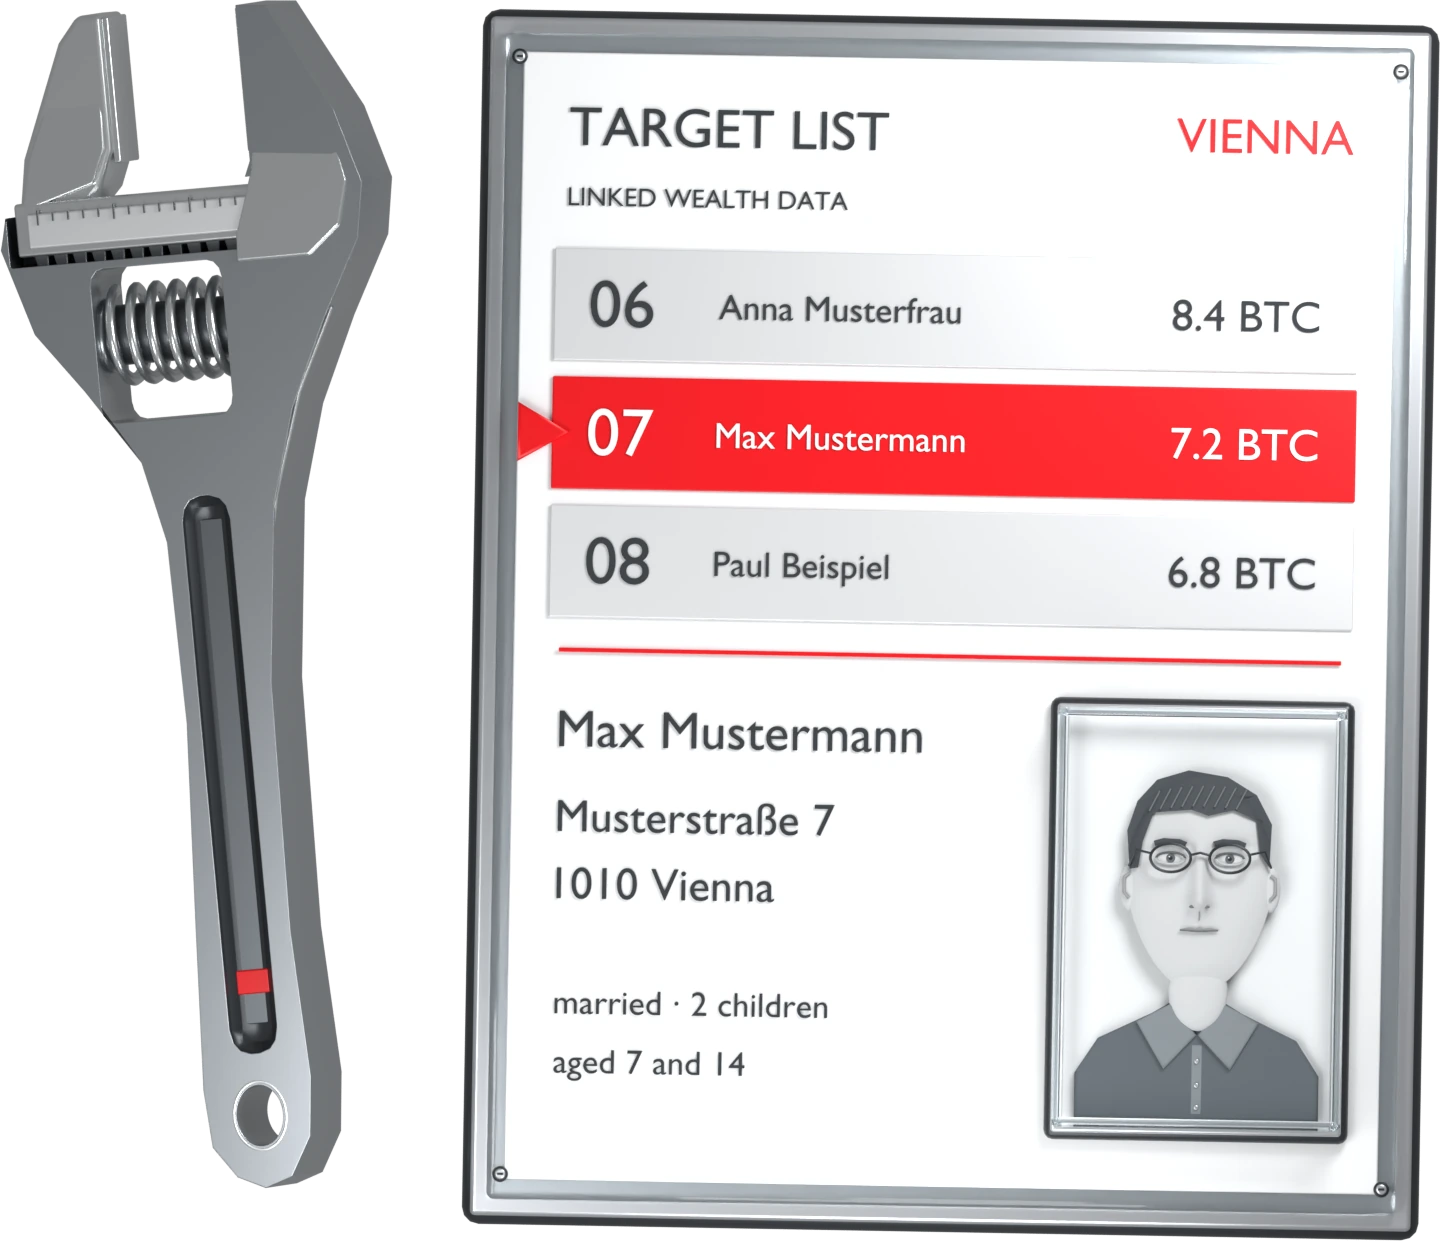
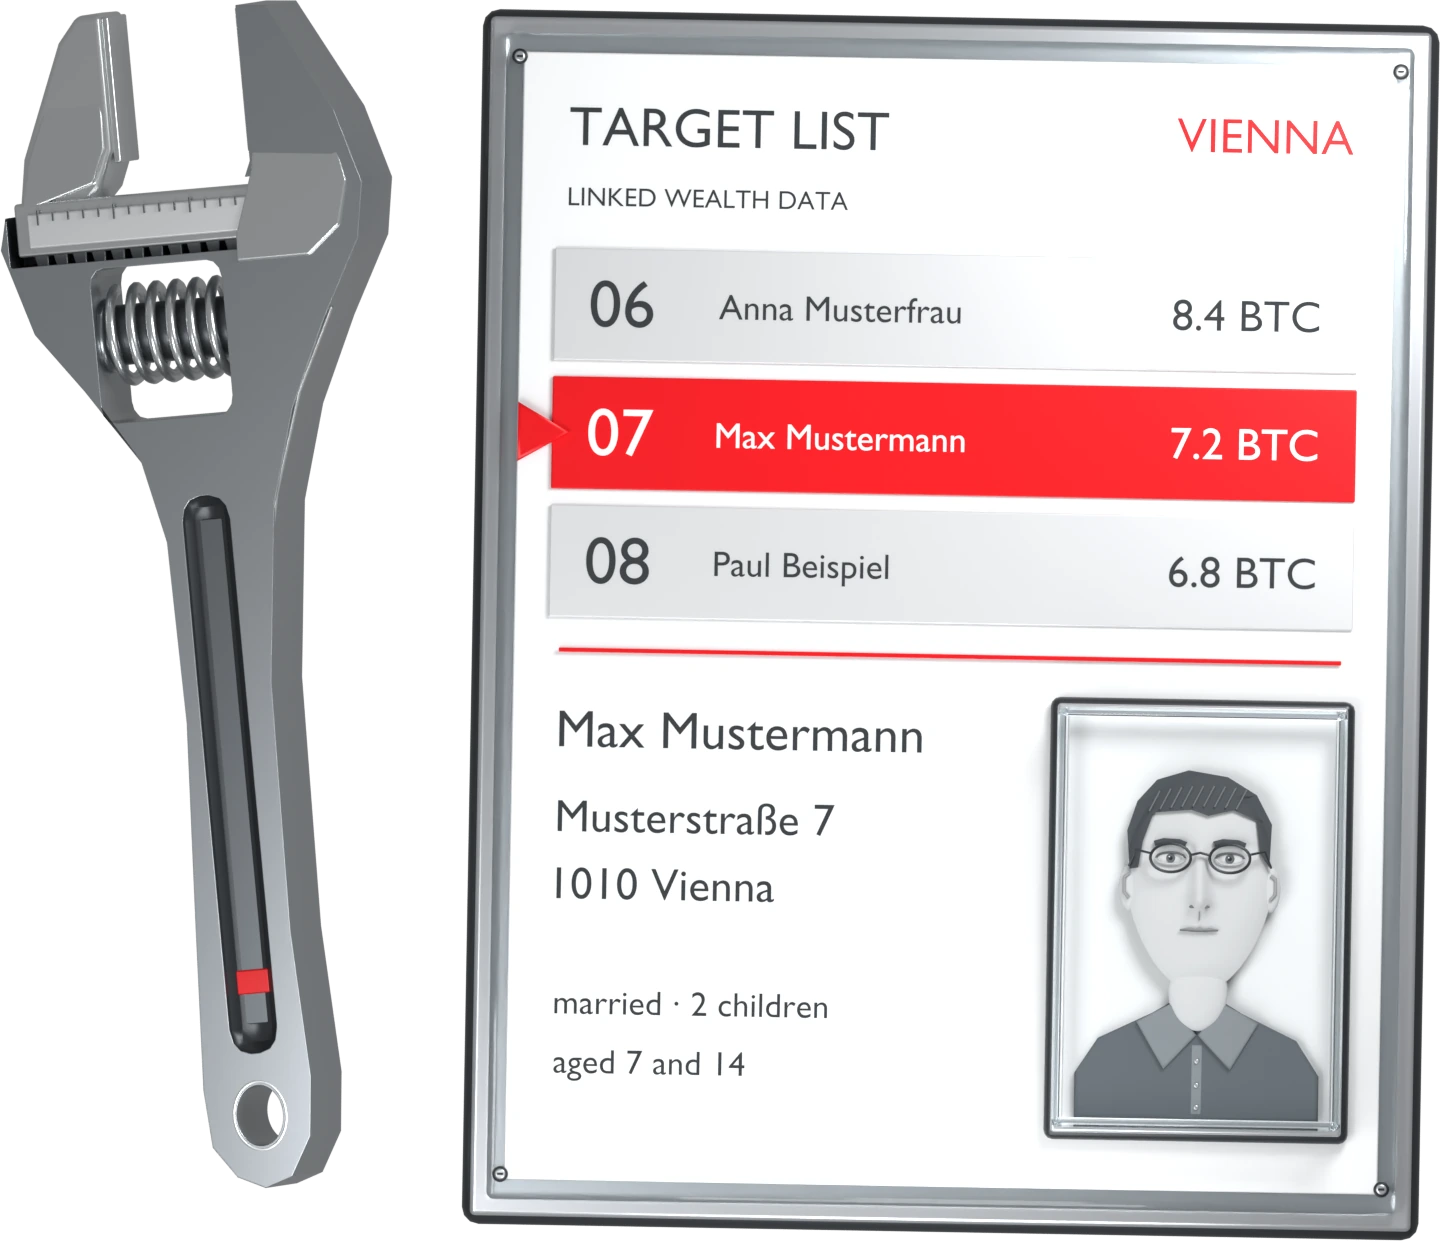
Re-render the labelled artwork without shadows under the lettering
Printed labels on the glass and metal cards cast a soft offset shadow, so
small text such as the leak sheet, the target list and the annual files
looked doubled and blurred although the geometry is sharp. The labels now
cast no shadow; geometry, cameras and crops are unchanged. Motifs without
labels, and the complaint and defence scenes whose text was already
shadowless, keep their files.

The renders come from the artwork lab's generators with that one change to
label(); the lab itself is not modified here.

diff --git a/README.md b/README.md
@@ -27,7 +27,10 @@ The site does not build from the submodule. Illustrations in use are copied
 from the lab's transparent cutouts (`knowledge/dac8-*-cutout.png`) into
 `src/assets/artwork/` as WebP masters; Astro generates the responsive AVIF and
 WebP files at build time. `src/data/artwork.ts` holds the German and English
-alt texts and captions, and `src/components/Artwork.astro` renders them. Motifs
+alt texts and captions, and `src/components/Artwork.astro` renders them. Labels
+in the renders cast no shadow (`ob.visible_shadow=False` in the lab's
+`build_site.py` `label()`); a soft shadow behind glass made small text look
+blurred. Motifs
 with text labels have a German and an English render (`*-en.webp`). The
 cutouts have no background, so the same file works in light and dark mode.
 People, addresses and amounts in the profiles are invented; captions must keep
